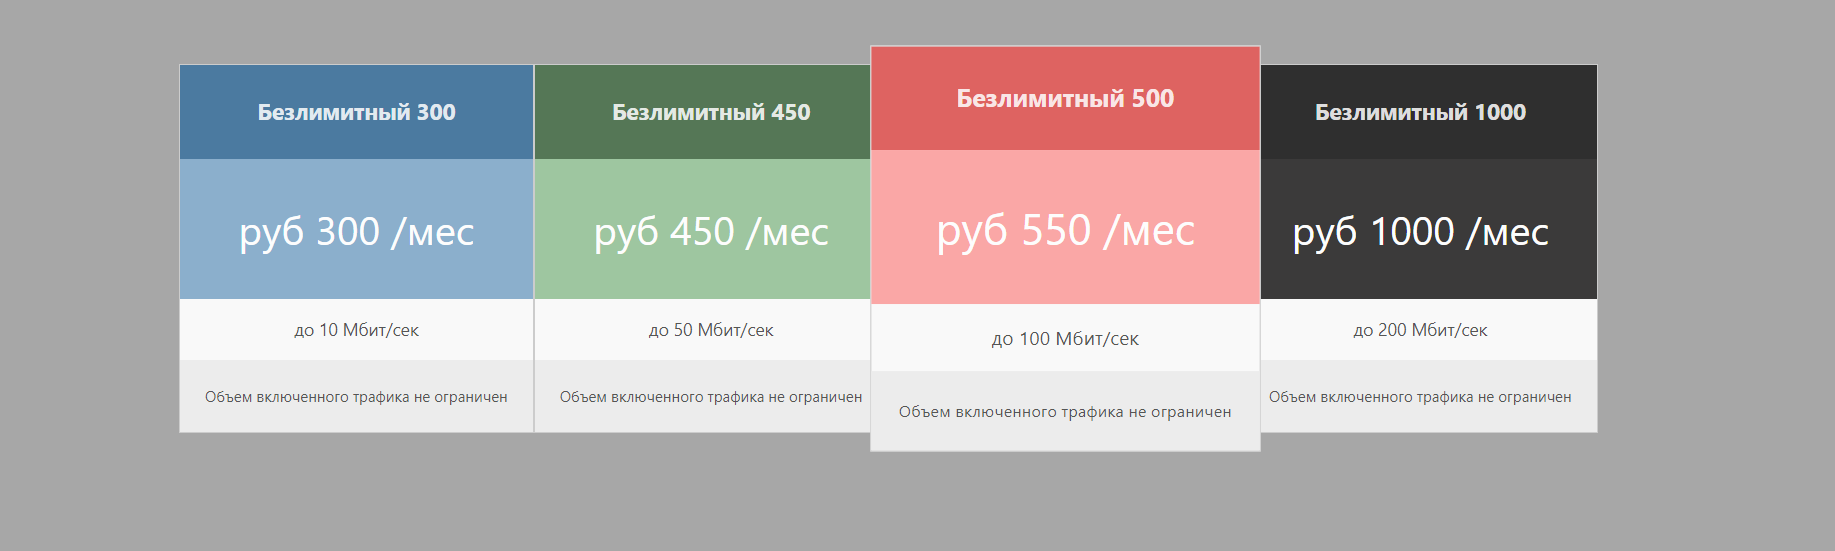
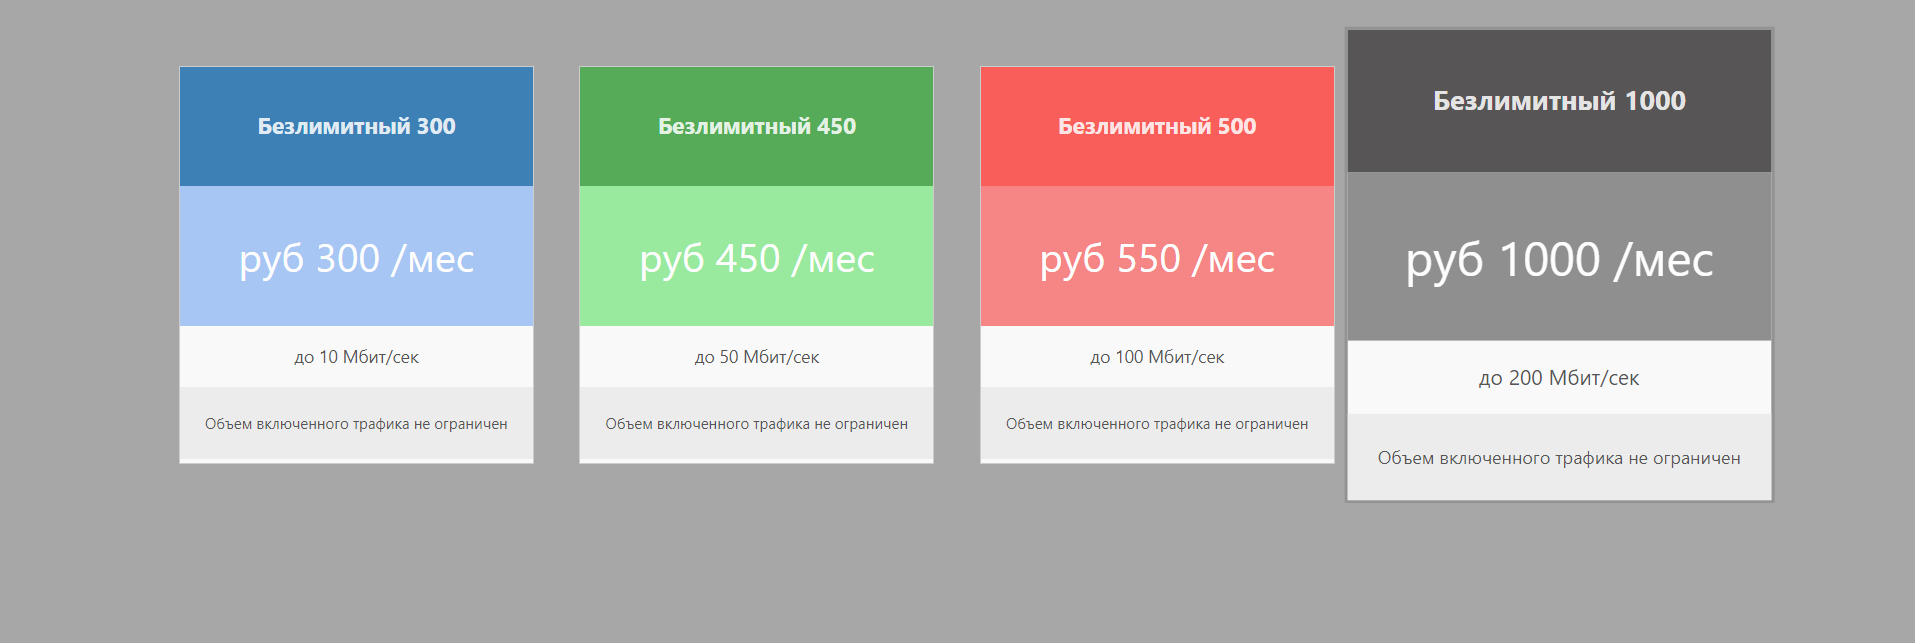
interactivity added

diff --git a/src/components/CardList.jsx b/src/components/CardList.jsx
@@ -1,0 +1,57 @@
+import React, { useState } from "react";
+import CardNew from "./CardNew";
+import styles from "./CardList.module.css";
+
+const tariffs = [
+  {
+    name: "300",
+    price: 300,
+    speed: "10",
+    headerClass: styles.blueCardHeader,
+    priceClass: styles.blueCardPrice,
+  },
+  {
+    name: "450",
+    price: 450,
+    speed: "50",
+    headerClass: styles.greenCardHeader,
+    priceClass: styles.greenCardPrice,
+  },
+  {
+    name: "500",
+    price: 550,
+    speed: "100",
+    headerClass: styles.redCardHeader,
+    priceClass: styles.redCardPrice,
+  },
+  {
+    name: "1000",
+    price: 1000,
+    speed: "200",
+    headerClass: styles.greyCardHeader,
+    priceClass: styles.greyCardPrice,
+  },
+];
+
+function CardList() {
+  const [selectedTariff, setSelectedTariff] = useState(null);
+
+  const handleSelectTariff = (tariffName) => {
+    setSelectedTariff(tariffName);
+  };
+
+  return (
+    <div className={styles.cardContainer}>
+      {tariffs.map((tariff) => (
+        <CardNew
+          key={tariff.name}
+          {...tariff}
+          onClick={() => handleSelectTariff(tariff.name)}
+          isSelected={selectedTariff === tariff.name}
+        />
+      ))}
+    </div>
+  );
+}
+
+export default CardList;

diff --git a/src/App.jsx b/src/App.jsx
@@ -1,41 +1,10 @@
 import "./App.css";
-import CardNew from "./components_new/CardNew";
-import styles from "./App.module.css";
+import CardList from "./components/CardList";
 
 function App() {
   return (
     <>
-      <div className={styles.cardContainer}>
-        <CardNew
-          name="300"
-          price={300}
-          speed="10"
-          headerClass={styles.blueCardHeader}
-          priceClass={styles.blueCardPrice}
-        />
-        <CardNew
-          name="450"
-          price={450}
-          speed="50"
-          headerClass={styles.greenCardHeader}
-          priceClass={styles.greenCardPrice}
-        />
-        <CardNew
-          name="500"
-          price={550}
-          speed="100"
-          className={styles.largeCard}
-          headerClass={styles.redCardHeader}
-          priceClass={styles.redCardPrice}
-        />
-        <CardNew
-          name="1000"
-          price={1000}
-          speed="200"
-          headerClass={styles.greyCardHeader}
-          priceClass={styles.greyCardPrice}
-        />
-      </div>
+      <CardList />
     </>
   );
 }

diff --git a/src/components/CardList.module.css b/src/components/CardList.module.css
@@ -1,0 +1,43 @@
+.cardContainer {
+  display: flex;
+  flex-direction: row;
+  gap: 16px;
+  padding: 16px;
+  justify-content: space-between;
+}
+
+.blueCardHeader {
+  background-color: #3d80b6;
+  padding: 10px;
+}
+
+.greenCardHeader {
+  background-color: #55ab58;
+  padding: 10px;
+}
+
+.redCardHeader {
+  background-color: #f95e5b;
+  padding: 10px;
+}
+
+.greyCardHeader {
+  background-color: #575555;
+  padding: 10px;
+}
+
+.blueCardPrice {
+  background-color: #a7c6f3;
+}
+
+.greenCardPrice {
+  background-color: #99e99e;
+}
+
+.redCardPrice {
+  background-color: #f68585;
+}
+
+.greyCardPrice {
+  background-color: #8f8f8f;
+}

diff --git a/src/components/CardNew.jsx b/src/components/CardNew.jsx
@@ -1,9 +1,23 @@
 import React from "react";
 import styles from "./CardNew.module.css";
 
-function CardNew({ name, price, speed, className, headerClass, priceClass }) {
+function CardNew({
+  name,
+  price,
+  speed,
+  className,
+  headerClass,
+  priceClass,
+  onClick,
+  isSelected,
+}) {
   return (
-    <div className={`${styles.card} ${className}`}>
+    <div
+      className={`${styles.card} ${className} ${
+        isSelected ? styles.selectedCard : ""
+      }`}
+      onClick={onClick}
+    >
       <div className={headerClass}>
         <h4 className={styles.cardName}>Безлимитный {name}</h4>
       </div>

diff --git a/src/components/CardNew.module.css b/src/components/CardNew.module.css
@@ -32,3 +32,13 @@
 .footerClass {
   background-color: #ececec;
 }
+
+.selectedCard {
+  border: 3px solid #939393;
+  transform: scale(1.2);
+  transition: transform 0.3s ease-in-out;
+}
+
+.card {
+  cursor: pointer;
+}

diff --git a/README.md b/README.md
@@ -1,10 +1,10 @@
 # Tariffs
 
-Список тарифов (карточка тарифа выделена как компонент). Тариф с ценой 550р выделяется заметнее остальных.
+Интерактивный список тарифов (карточка тарифа выделена как компонент). Есть возможность выбирать тариф нажатием на него.
 
 <img src="src/assets/tariffs.png" alt="tariffs" />
 
-# Технологии
+# Технологии (React + Vite)
 
 <div align="center">  
 <a href="https://reactjs.org/" target="_blank"><img style="margin: 10px" src="https://profilinator.rishav.dev/skills-assets/react-original-wordmark.svg" alt="React" height="50" /></a> 
